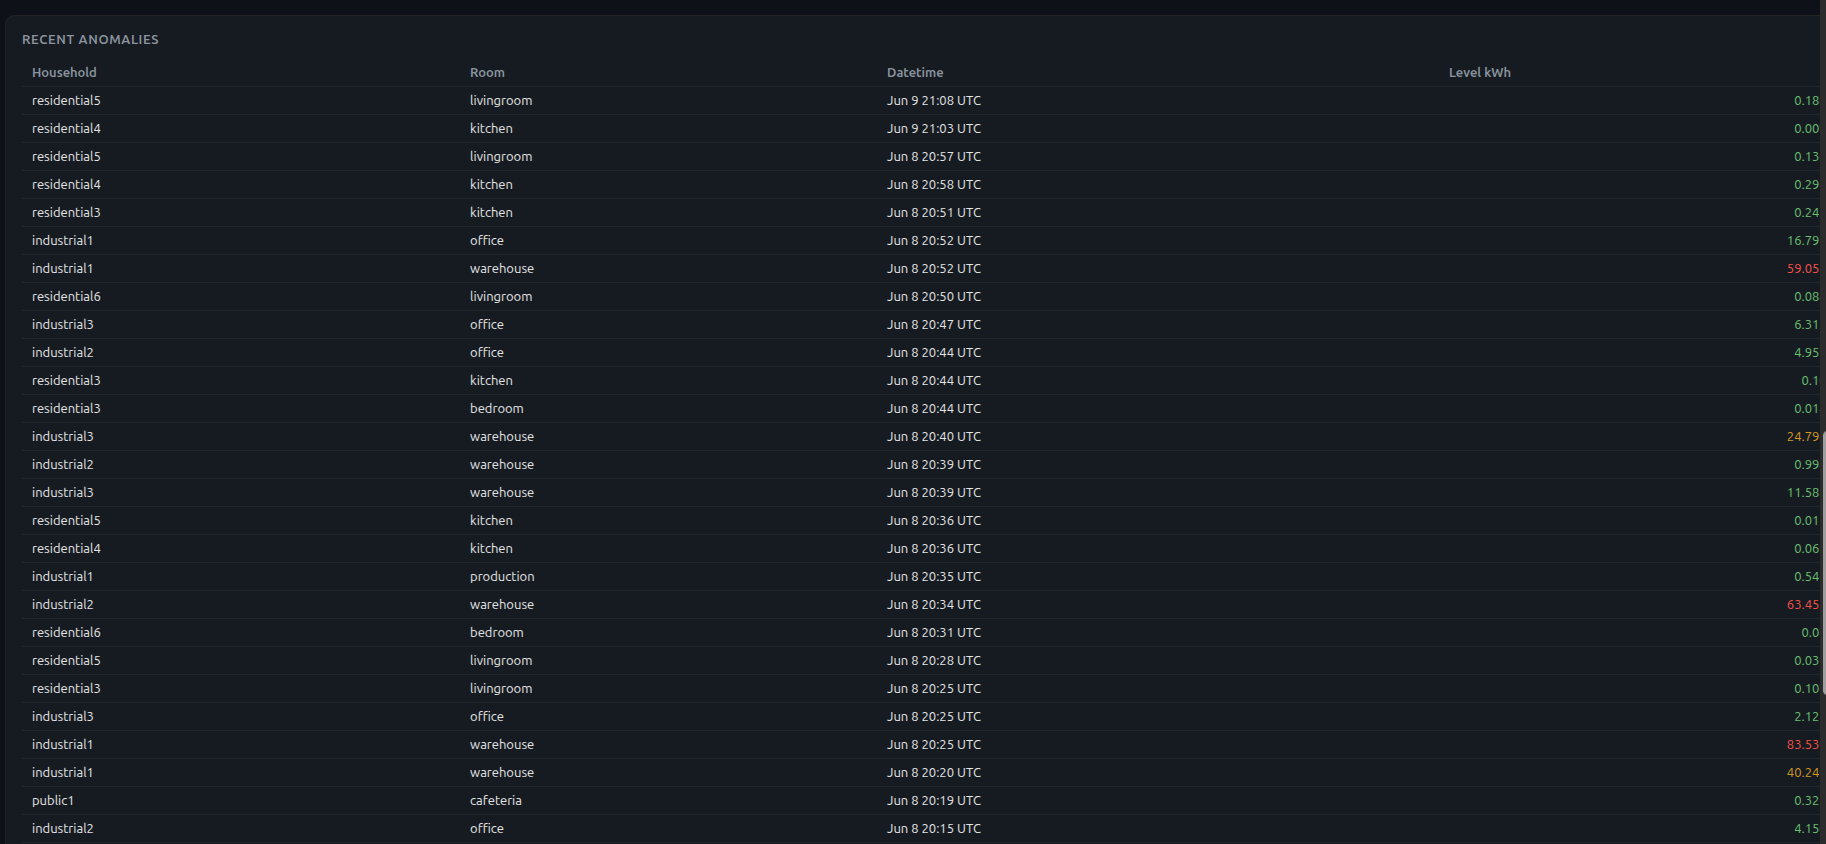
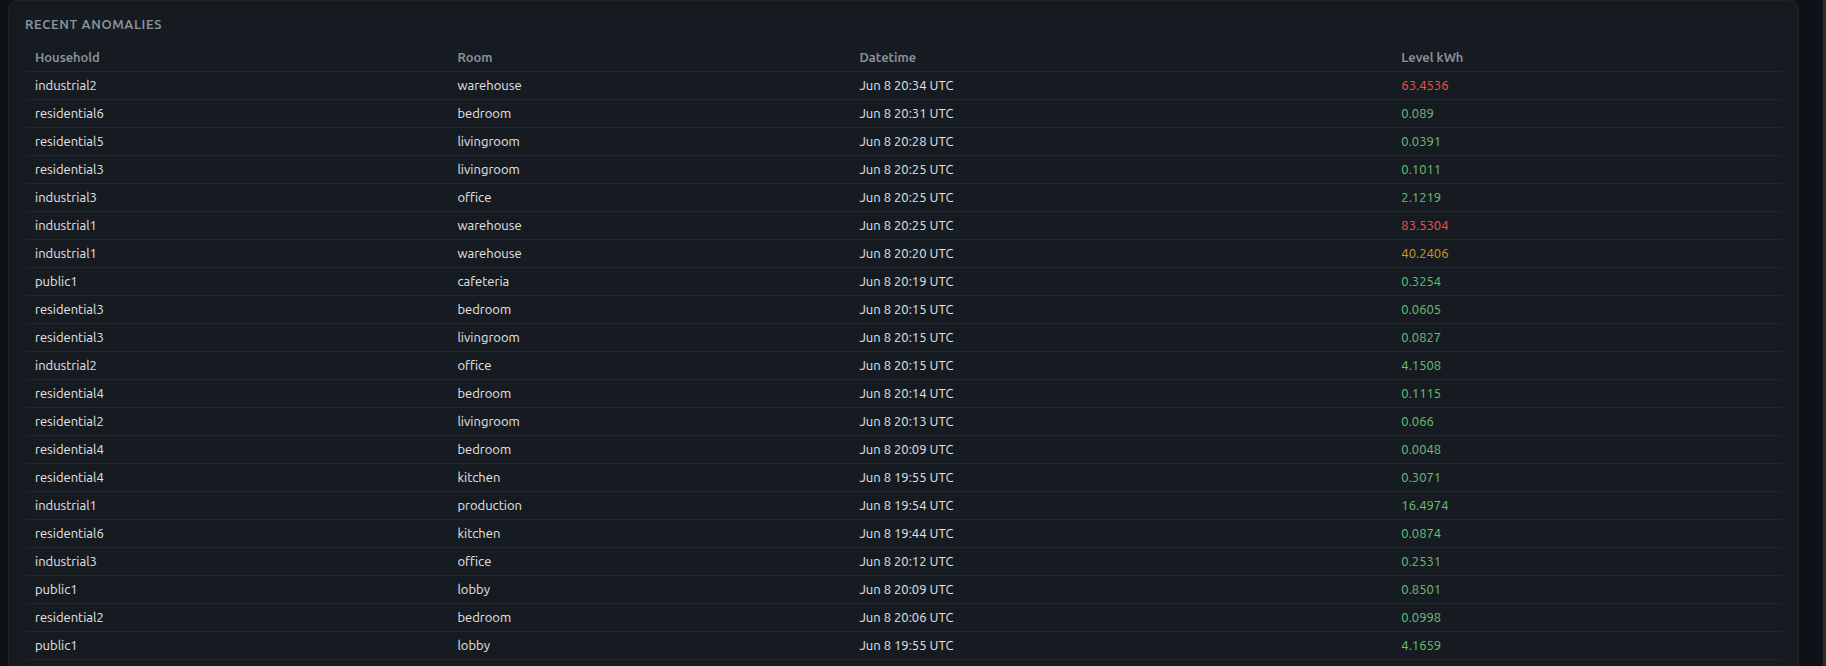
Minor UI and report changes

diff --git a/reporter/static/index.html b/reporter/static/index.html
@@ -33,7 +33,7 @@
     table { width: 100%; border-collapse: collapse; font-size: 13px; }
     th, td { text-align: left; padding: 6px 10px; border-bottom: 1px solid #21262d; }
     th { color: #8b949e; font-weight: 600; }
-    td.num { text-align: right; font-variant-numeric: tabular-nums; }
+    td.num { font-variant-numeric: tabular-nums; }
     @media (max-width: 900px) { .cards, .charts { grid-template-columns: 1fr; } }
   </style>
 </head>